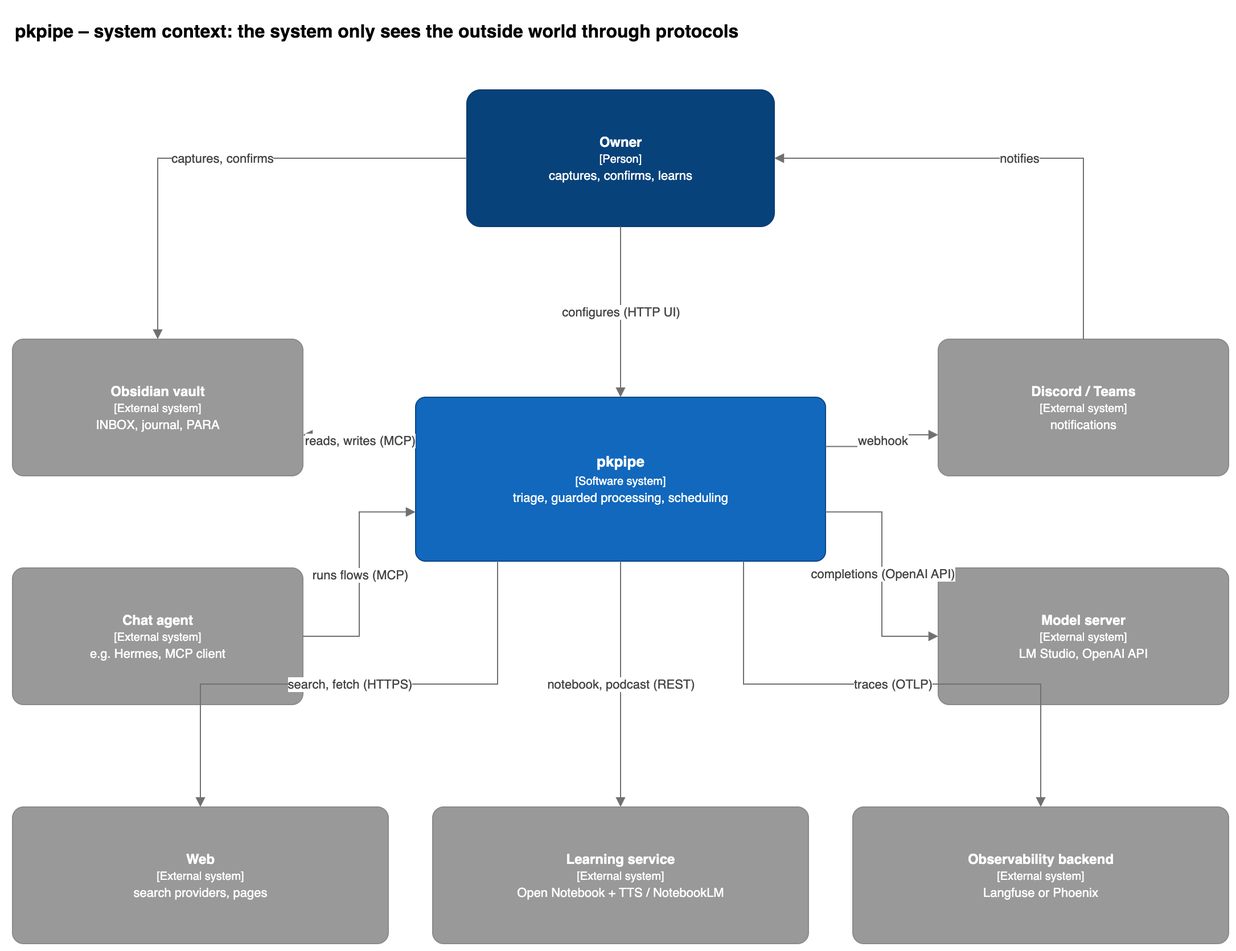
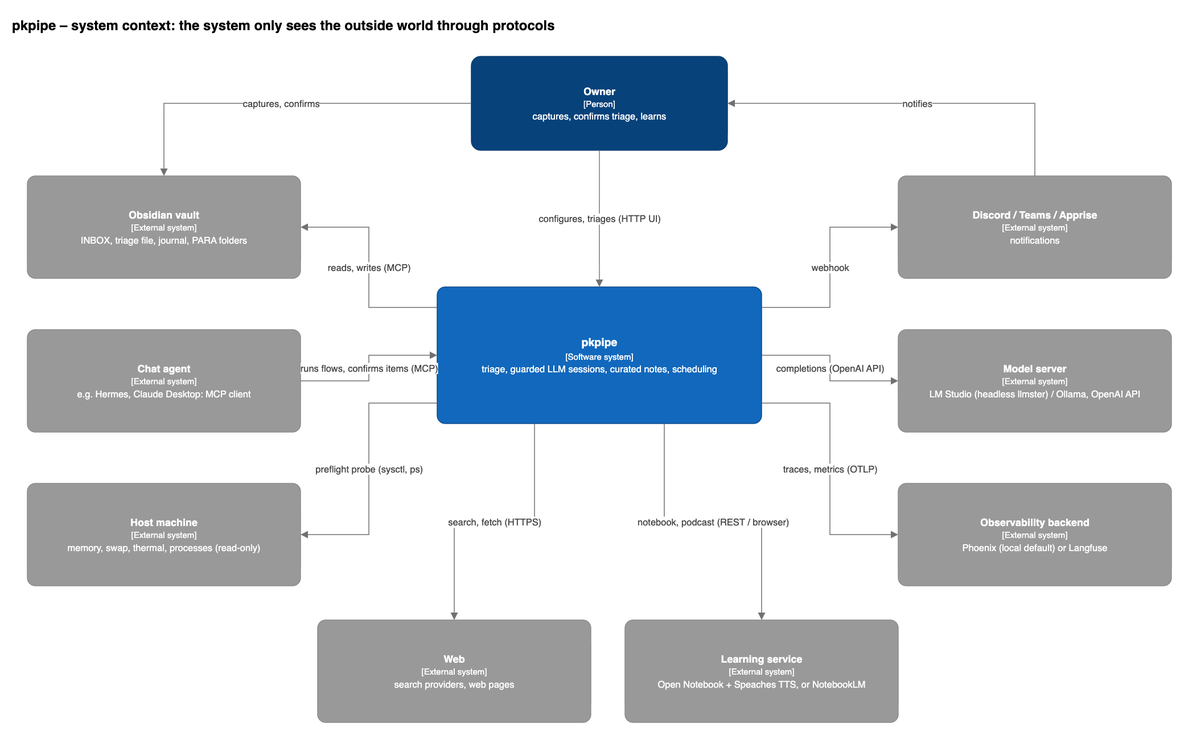
docs(architecture): C4 model with code references and a code level
- Context: host machine (system preflight probe), LM Studio headless llmster,
  Phoenix as local default, Apprise, Speaches TTS.
- Containers: pkpipe CLI, guard models (Qwen3Guard + DeBERTa, in-process),
  headless browsers behind the filtering proxy, ports and entry points,
  container-to-code table.
- Components: every component names its module and main classes; all ten
  implemented ports with their adapters; session plans, secure fetch,
  output guard, context packs, improvements and tool candidates, preflight
  service, publish gate, telemetry, app store, composition root.
- Drift fixed: no Git store adapter exists (publishing is pkpipe.api.publish);
  StatePort and ConfigPort have fakes only.
- New level 4 (code) page in pkpipe-c4.drawio, c4-code.png and a Mermaid
  class diagram; all PNGs re-exported with the draw.io CLI.

diff --git a/docs/architecture.md b/docs/architecture.md
@@ -25,13 +25,16 @@ The binding rules are in the constitution (`.specify/memory/constitution.md`). I
 | Orchestration | LangGraph (StateGraph, SQLite checkpointer) |
 | API and UI | FastAPI + HTMX + Monaco editor |
 | Scheduling | APScheduler (SQLite job store), `launchd` keeps the app alive |
-| Model | Any OpenAI-compatible server; default LM Studio with a ~9B instruct model, JSON-schema structured output |
+| Model | Any OpenAI-compatible server; default LM Studio, run headless as the `llmster` daemon (`lms daemon up`), with a ~9B instruct model, JSON-schema structured output |
 | Tools | MCP over Streamable HTTP (`langchain-mcp-adapters`, FastMCP) |
-| Web fetch | Lightpanda (headless, MCP), Playwright + Chromium fallback |
+| Web fetch | web-fetch MCP server: Lightpanda (headless) behind a filtering proxy, one Playwright + Chromium fallback |
 | Learning backend | Open Notebook (REST) with local TTS (Speaches / Kokoro); NotebookLM as optional backend |
 | Guards | Local classifiers: Qwen3Guard-Gen-0.6B (harmful content, jailbreak) + ProtectAI DeBERTa (prompt injection), [decision 0001](decisions/0001-injection-classifier.md); canary, heuristics and verdicts in code |
-| Observability | OpenTelemetry (OpenInference, FastAPI, httpx) → Langfuse or Phoenix |
+| Observability | OpenTelemetry (OpenInference, FastAPI, httpx) → Phoenix (local default) or Langfuse |
 | Docs | Docusaurus, GitHub Pages |
+
+
+The diagrams below have one source, `docs/design/pkpipe-c4.drawio` (pages: system context, containers, components, code). The PNGs in `docs/img/c4/` are exports of those pages (draw.io CLI: `draw.io -x -f png -p <page> -o docs/img/c4/<name>.png docs/design/pkpipe-c4.drawio`), and each Mermaid block shows the same elements. A change to one updates all three.
 
 ## C4 – level 1: system context
 
@@ -41,26 +44,29 @@ The binding rules are in the constitution (`.specify/memory/constitution.md`). I
 C4Context
     title System context - pkpipe
     Person(owner, "Owner", "Captures resources, confirms triage, learns")
-    System(pkpipe, "pkpipe", "Triage, guarded processing, scheduling")
-    System_Ext(vault, "Obsidian vault", "INBOX, journal, PARA folders")
-    System_Ext(chat, "Discord / Teams", "Notifications")
-    System_Ext(hermes, "Chat agent (e.g. Hermes)", "Controls pkpipe over MCP")
-    System_Ext(model, "Model server", "LM Studio / Ollama, OpenAI-compatible")
+    System(pkpipe, "pkpipe", "Triage, guarded LLM sessions, curated notes, scheduling")
+    System_Ext(vault, "Obsidian vault", "INBOX, triage file, journal, PARA folders")
+    System_Ext(agent, "Chat agent (e.g. Hermes, Claude Desktop)", "Controls pkpipe over MCP")
+    System_Ext(host, "Host machine", "Memory, swap, thermal state, processes (read-only)")
+    System_Ext(chat, "Discord / Teams / Apprise", "Notifications")
+    System_Ext(model, "Model server", "LM Studio (headless llmster daemon) / Ollama, OpenAI-compatible")
+    System_Ext(obs, "Observability backend", "Phoenix (local default) or Langfuse")
     System_Ext(web, "Web", "Search providers, web pages")
-    System_Ext(learn, "Learning service", "Open Notebook + local TTS, or NotebookLM")
-    System_Ext(obs, "Observability backend", "Langfuse or Phoenix")
+    System_Ext(learn, "Learning service", "Open Notebook + Speaches TTS, or NotebookLM")
     Rel(owner, vault, "Captures, confirms")
-    Rel(owner, pkpipe, "Configures", "HTTP UI")
+    Rel(owner, pkpipe, "Configures, triages", "HTTP UI")
+    Rel(chat, owner, "Notifies")
     Rel(pkpipe, vault, "Reads, writes", "MCP")
+    Rel(agent, pkpipe, "Runs flows, confirms items", "MCP")
+    Rel(pkpipe, host, "Preflight probe", "sysctl, ps")
     Rel(pkpipe, chat, "Notifies", "webhook")
-    Rel(hermes, pkpipe, "Runs flows, confirms items", "MCP")
     Rel(pkpipe, model, "Completions", "OpenAI API")
-    Rel(pkpipe, web, "Searches, fetches", "HTTPS")
-    Rel(pkpipe, learn, "Notebook, podcast", "REST / MCP")
     Rel(pkpipe, obs, "Traces, metrics", "OTLP")
+    Rel(pkpipe, web, "Searches, fetches", "HTTPS")
+    Rel(pkpipe, learn, "Notebook, podcast", "REST / browser")
 ```
 
-The system has one user; everything else is an external system that can be replaced as long as it speaks the same protocol.
+The system has one user; everything else is an external system that can be replaced as long as it speaks the same protocol. The host machine is read, never changed: the system preflight (`pkpipe doctor`, every eval run, the live tests) checks memory pressure, swap, thermal state and the LLM server before heavy work.
 
 ## C4 – level 2: containers
 
@@ -70,40 +76,63 @@ The system has one user; everything else is an external system that can be repla
 C4Container
     title Containers - pkpipe on one machine
     Person(owner, "Owner")
-    System_Ext(model, "Model server", "LM Studio")
-    System_Ext(chat, "Discord / Teams")
-    System_Ext(obs, "Trace backend", "Langfuse / Phoenix")
-    System_Ext(web, "Web")
+    System_Ext(agent, "Chat agent", "MCP client, owner or agent token")
+    System_Ext(chat, "Discord / Teams / Apprise")
+    System_Ext(model, "LM Studio", "headless llmster daemon :1234, OpenAI API")
+    System_Ext(obs, "Phoenix / Langfuse", "OTLP")
+    System_Ext(host, "Host machine", "sysctl, vm_stat, pmset, ps")
+    System_Ext(vault, "Obsidian vault", "Markdown files")
+    System_Ext(search, "Search providers")
+    System_Ext(web, "Web pages")
     System_Ext(nblm, "NotebookLM", "optional backend")
-    System_Ext(vault, "Obsidian vault", "files")
-    Container_Boundary(sys, "pkpipe") {
-        Container(app, "pkpipe app", "Python: FastAPI, LangGraph, APScheduler", "Flows, scheduling, UI, app MCP, telemetry")
-        ContainerDb(db, "App DB", "SQLite", "Checkpoints, items, jobs, runs")
-        ContainerDb(cfg, "Config repo", "git: JSON + Markdown", "Flows, categories, sessions, instructions")
-        Container(mvault, "obsidian-vault", "FastMCP", "Vault notes and lists")
-        Container(msearch, "web-search", "MCP", "SearXNG or Brave")
-        Container(mfetch, "web-fetch", "pkpipe.webfetch MCP", "fetch_page only: Lightpanda, Chromium fallback, filtering proxy")
-        Container(mlearn, "learning-gateway", "FastMCP", "Backends: open_notebook, notebooklm_browser, fake")
-        Container(on, "Open Notebook", "Docker", "API + SurrealDB + local TTS")
+    Container_Boundary(sys, "pkpipe (single machine)") {
+        Container(app, "pkpipe app", "Python: FastAPI, LangGraph, APScheduler (pkpipe serve :8787)", "REST + HTMX UI, app MCP (/mcp), scheduler, flow runs, session plans, secure fetch steps, output guard, system preflight, publish gate, OTel")
+        Container(cli, "pkpipe CLI", "Python", "run, runs, eval, doctor, candidates, validate: same core and adapters")
+        ContainerDb(guards, "Guard models", "local weights, transformers", "Qwen3Guard-Gen-0.6B + ProtectAI DeBERTa, in-process, offline")
+        ContainerDb(db, "App DB", "SQLite (WAL)", "Runs, config snapshots, checkpoints, jobs, drafts, publishes, audit")
+        ContainerDb(cfg, "Config", "git: JSON + Markdown", "Public pack + private overlay")
+        Container(mvault, "obsidian-vault :8701", "FastMCP, pkpipe.obsidian", "Notes, triage and processing lists, improvements, tool candidates, quarantine")
+        Container(msearch, "web-search :8702", "MCP, not in this repo", "SearXNG or Brave")
+        Container(mfetch, "web-fetch :8704", "FastMCP, pkpipe.webfetch", "fetch_page only: URL policy, filtering proxy, Lightpanda, Chromium fallback")
+        Container(browsers, "Headless browsers", "child processes", "Lightpanda, Playwright + Chromium")
+        Container(mlearn, "learning-gateway :8703", "FastMCP, pkpipe.learning", "create, status, link, audio; SQLite job store")
+        Container(on, "Open Notebook", "Docker", "API + SurrealDB + Speaches (Kokoro) TTS")
     }
-    Rel(owner, app, "UI", "HTTP")
-    Rel(app, db, "reads, writes")
-    Rel(app, cfg, "loads, publishes")
-    Rel(app, model, "completions", "OpenAI API")
+    Rel(owner, app, "UI, API", "HTTP")
+    Rel(agent, app, "tools", "MCP /mcp")
     Rel(app, chat, "notifies", "webhook")
+    Rel(app, model, "completions", "OpenAI API")
     Rel(app, obs, "exports", "OTLP")
+    Rel(app, host, "probes", "read-only")
+    Rel(app, guards, "loads")
+    Rel(app, db, "reads, writes")
+    Rel(cli, db, "reads, writes")
+    Rel(app, cfg, "loads, publishes", "git commit")
     Rel(app, mvault, "tools", "MCP")
     Rel(app, msearch, "tools", "MCP")
     Rel(app, mfetch, "tools", "MCP")
     Rel(app, mlearn, "tools", "MCP")
-    Rel(mvault, vault, "file I/O")
-    Rel(msearch, web, "HTTPS")
-    Rel(mfetch, web, "HTTPS")
+    Rel(mvault, vault, "file I/O, atomic, locked")
+    Rel(msearch, search, "HTTPS")
+    Rel(mfetch, browsers, "spawns")
+    Rel(browsers, web, "HTTPS via filtering proxy")
     Rel(mlearn, on, "REST")
     Rel(mlearn, nblm, "browser automation")
 ```
 
-Every box is a separate process. The app never imports an MCP server; it reaches them by URL from `mcp_servers.json`. The one exception is the owner channel: the UI and the app MCP read the triage file and write the owner's decisions through the `pkpipe.obsidian` library in-process (same file locking as the vault server), because owner decisions must not be a tool on the server that LLM sessions can reach. Only the `learning-gateway` knows about Open Notebook or NotebookLM, so switching the learning backend does not touch the app.
+Every box is a separate process. The app never imports an MCP server; it reaches them by URL from `mcp_servers.json`, and `launchd` keeps `pkpipe serve` and the three pkpipe MCP servers alive (`deploy/launchd/`). The one exception is the owner channel: the UI and the app MCP read the triage file and write the owner's decisions through the `pkpipe.obsidian` library in-process (same file locking as the vault server), because owner decisions must not be a tool on the server that LLM sessions can reach. Only the `learning-gateway` knows about Open Notebook or NotebookLM, so switching the learning backend does not touch the app. Only web-search, web-fetch and learning-gateway have egress; the browsers reach the web only through the per-fetch filtering proxy.
+
+| Container | Code | Entry point | Notes |
+| --- | --- | --- | --- |
+| pkpipe app | `pkpipe.serve`, `pkpipe.app`, `pkpipe.api`, `pkpipe.mcp`, `pkpipe.scheduler`, `pkpipe.engine`, `pkpipe.steps` | `pkpipe serve` | One listener for UI, `/api` and `/mcp`; bind check and tokens in `pkpipe.api.security` |
+| pkpipe CLI | `pkpipe.cli`, `pkpipe.candidates_cli`, `pkpipe.system.cli`, `pkpipe.evals.cli` | `pkpipe <command>` | Same composition root (`pkpipe.app`) as the app |
+| Guard models | `pkpipe.adapters.classifier_qwen3guard`, `classifier_deberta`, `classifier_combined` | loaded by `pkpipe.adapters.classifiers.build_classifier` | Weights read from local directories, never downloaded at run time |
+| App DB | `pkpipe.adapters.state_sqlite`, `pkpipe.adapters.app_store_sqlite`, `pkpipe.scheduler.sqlite_jobstore` | – | One SQLite file |
+| Config | `packs/learning-inbox/` (public pack), private overlay repo | `pkpipe.engine.registry.load_effective` | Published by `pkpipe.api.publish.Publisher` (one local commit, no push) |
+| obsidian-vault | `pkpipe.obsidian` (`server`, `vault.Vault`, `policy.VaultPolicy`, `tables`, `atomic`) | `mcp_servers/obsidian_vault/server.py` | – |
+| web-search | external (SearXNG in `deploy/docker-compose.yml`, or Brave MCP) | – | Only the `search` tool is allow-listed |
+| web-fetch | `pkpipe.webfetch` (`server`, `service.SecureFetcher`, `proxy.FilteringProxy`, `browsers`) | `mcp_servers/web_fetch/server.py` | Tools `fetch_page`, `fetch_stats` |
+| learning-gateway | `pkpipe.learning` (`server`, `gateway.LearningGateway`, `store.JobStore`, `backends.*`) | `mcp_servers/learning_gateway/server.py` | `deploy/open-notebook/` runs Open Notebook + Speaches |
 
 ## C4 – level 3: components of the app
 
@@ -113,62 +142,173 @@ Every box is a separate process. The app never imports an MCP server; it reaches
 C4Component
     title Components - pkpipe app (ports and adapters)
     Container_Boundary(app, "pkpipe app") {
-        Component(rest, "REST + UI router", "FastAPI, HTMX", "Inbound adapter")
-        Component(appmcp, "App MCP server", "FastMCP", "Inbound adapter")
-        Component(sched, "Scheduler", "APScheduler", "Inbound adapter")
-        Component(cli, "CLI", "argparse", "Inbound adapter")
-        Component(run, "Run service", "core", "Start, resume, pin config version")
-        Component(comp, "Flow compiler", "core", "Flow JSON to LangGraph StateGraph")
-        Component(steps, "Step executors", "core", "llm, llm_tools, tool, code, notify, wait, subflow")
-        Component(triage, "Triage domain", "core", "Item states, release rule")
-        Component(reg, "Config registry", "core", "Layers, validation, hot reload")
-        Component(ports, "Ports", "Protocols", "ModelPort, ToolPort, NotifyPort, StatePort, ConfigPort, SystemProbePort")
-        Component(aopenai, "OpenAI client", "adapter", "ModelPort")
-        Component(amcp, "MCP client", "adapter", "ToolPort")
-        Component(anotify, "Notifiers", "adapter", "NotifyPort: Discord, Teams, Apprise")
-        Component(asqlite, "SQLite repo", "adapter", "StatePort + checkpointer")
-        Component(agit, "Git store", "adapter", "ConfigPort")
-        Component(aprobe, "System probe", "adapter", "SystemProbePort: sysctl, vm_stat, pmset, ps, LM Studio")
+        Component(rest, "REST + UI router", "pkpipe.api", "Inbound adapter")
+        Component(appmcp, "App MCP server", "pkpipe.mcp", "Inbound adapter")
+        Component(sched, "Scheduler", "pkpipe.scheduler", "Inbound adapter")
+        Component(cli, "CLI", "pkpipe.cli", "Inbound adapter")
+        Component(run, "Run service", "engine.runs", "Start, resume, pin config version")
+        Component(comp, "Flow compiler", "engine.compiler", "Flow JSON to LangGraph StateGraph")
+        Component(reg, "Config registry", "engine.registry", "Layers, validation, snapshot")
+        Component(steps, "Step executors", "pkpipe.steps", "llm, llm_tools, tool, code, notify, wait, subflow, guard")
+        Component(plan, "Session plans", "steps.session_plan", "Category plan, isolated sessions")
+        Component(fetch, "Secure fetch steps", "steps.secure_fetch", "url_check, fetch, sanitize, scan, reader, verdict")
+        Component(oguard, "Output guard", "steps.output_guard", "Canary, heuristics, classifier before writes")
+        Component(sec, "Security library", "pkpipe.security", "URL filter, sanitizer, heuristics, canary, verdict")
+        Component(domain, "Domain", "pkpipe.domain", "Triage, context packs, improvements, tool candidates, preflight policy")
+        Component(ports, "Ports", "pkpipe.ports", "Model, Tool, Notify, Classifier, SecurityLog, ContextStore, RunStore, Tracer, Clock, SystemProbe")
+        Component(adapters, "Outbound adapters", "pkpipe.adapters", "OpenAI, MCP, notifiers, classifiers, files, SQLite, OTel, system probe")
+        Component(services, "Application services", "pkpipe.system, pkpipe.evals, pkpipe.telemetry", "Preflight, publish gate, telemetry")
     }
     Rel(rest, run, "calls")
     Rel(appmcp, run, "calls")
     Rel(sched, run, "calls")
     Rel(cli, run, "calls")
     Rel(run, comp, "builds graph")
-    Rel(comp, steps, "wires")
     Rel(comp, reg, "reads")
-    Rel(steps, triage, "applies rules")
+    Rel(comp, steps, "wires")
+    Rel(steps, plan, "includes")
+    Rel(steps, fetch, "includes")
+    Rel(steps, oguard, "includes")
+    Rel(steps, sec, "uses")
+    Rel(steps, domain, "applies rules")
     Rel(steps, ports, "uses")
     Rel(run, ports, "uses")
-    Rel(aopenai, ports, "implements")
-    Rel(amcp, ports, "implements")
-    Rel(anotify, ports, "implements")
-    Rel(asqlite, ports, "implements")
-    Rel(agit, ports, "implements")
-    Rel(aprobe, ports, "implements")
+    Rel(adapters, ports, "implements")
+    Rel(services, domain, "decides with")
 ```
 
-Dependencies point inwards: inbound adapters call the core, the core knows only the ports, outbound adapters implement the ports.
+Dependencies point inwards: inbound adapters call the core, the core knows only the ports, outbound adapters implement the ports. The core (`pkpipe.engine`, `.domain`, `.steps`, `.security`) may import only `pkpipe.ports`, the stdlib, LangGraph, pydantic and `langchain_core`; `tests/unit/repo/test_architecture.py` enforces it.
 
-| Component | Module | Depends on | Replacing it affects |
+| Component | Module (main classes) | Depends on | Replacing it affects |
 | --- | --- | --- | --- |
-| REST + UI router | `pkpipe.api` | Run service, Config registry | UI only |
-| App MCP server | `pkpipe.mcp` | Run service, Triage domain, `pkpipe.api.services` | MCP clients only |
-| Scheduler | `pkpipe.scheduler` | Run service | Nothing |
-| Run service | `pkpipe.engine.runs` | Flow compiler, RunStorePort, checkpointer | – |
-| Flow compiler | `pkpipe.engine.compiler` | Step executors, Config registry | – |
-| Step executors | `pkpipe.steps` | ModelPort, ToolPort, NotifyPort, ClockPort, TracerPort | New step type = new module (`@register_step`) |
-| Triage domain | `pkpipe.domain.triage` | Nothing (pure Python) | – |
-| Config registry | `pkpipe.engine.registry` | ConfigPort | – |
-| OpenAI client | `pkpipe.adapters.model_openai` | `langchain-openai` | Model server: URL only |
-| MCP client | `pkpipe.adapters.tools_mcp` | FastMCP client | Tool backend: `mcp_servers.json` only |
-| Notifiers | `pkpipe.adapters.notify_*` | `httpx`, `apprise` | New channel = new adapter |
-| SQLite repo | `pkpipe.adapters.state_sqlite` | `langgraph-checkpoint-sqlite` | Can move to Postgres |
-| Tracer | `pkpipe.adapters.tracer_otel` | `pkpipe.telemetry` (OpenTelemetry) | TracerPort; the core never imports OpenTelemetry |
-| System preflight policy | `pkpipe.domain.system` | Nothing (pure Python, `evals.preflight` thresholds) | – |
-| System probe | `pkpipe.adapters.system_probe` | `sysctl`, `vm_stat`, `pmset`, `ps`, `/proc`, LM Studio REST / `lms` | SystemProbePort; another OS = another probe |
-| System preflight service | `pkpipe.system` | SystemProbePort, `pkpipe.telemetry` | `pkpipe doctor`, `pkpipe eval`, live-test sampler |
-| Composition root | `pkpipe.app` | All adapters | Chooses the adapter per port |
-| Git store | `pkpipe.adapters.config_git` | `git` | Can move to plain files |
+| REST + UI router | `pkpipe.api.app.create_app`, `pkpipe.api.services.AppServices`, `RunLauncher`, `pkpipe.api.workspace.ConfigWorkspace`, `pkpipe.api.security.GuardMiddleware` | Run service, Config registry, App store, Publish gate | UI only |
+| App MCP server | `pkpipe.mcp.server.build_app_mcp` (`run_flow`, `get_run`, `list_triage`, `confirm_item`, `override_item`, `release_quarantine`) | `pkpipe.api.services.AppServices`, Triage domain | MCP clients only |
+| Scheduler | `pkpipe.scheduler.FlowScheduler` | Run service, APScheduler SQLite job store | Nothing |
+| CLI | `pkpipe.cli.main`, `pkpipe.candidates_cli`, `pkpipe.system.cli`, `pkpipe.evals.cli` | Run service, Preflight service, Evals | – |
+| Run service | `pkpipe.engine.runs.RunService` | Flow compiler, RunStorePort, checkpointer | – |
+| Flow compiler | `pkpipe.engine.compiler.FlowCompiler`, `validate_flow`, `validate_config_flows` | Step executors, Config registry | – |
+| Config registry | `pkpipe.engine.registry.load_effective`, `EffectiveConfig`, `pkpipe.engine.snapshot.ConfigSnapshot`, `pkpipe.engine.config_models` | Files of the pack and overlay | – |
+| Step executors | `pkpipe.steps.base` (`StepExecutor`, `StepRegistry`, `@register_step`, `@register_code`, `StepPorts`), `steps.llm`, `steps.tool`, `steps.flow_control` | ModelPort, ToolPort, NotifyPort, ClockPort, TracerPort | New step type = new module (`@register_step`) |
+| Session plans | `pkpipe.steps.session_plan.SessionPlanStep`, `pkpipe.domain.session_plan` | Step executors, `categories.json` | New category = data only |
+| Secure fetch steps | `pkpipe.steps.secure_fetch` (`FetchStep`, `SanitizeStep`, `ReaderStep`, `url_check`, `scan`, `verdict`) | ToolPort (web-fetch), ClassifierPort, Security library | – |
+| Output guard | `pkpipe.steps.output_guard.OutputGuardStep`, `pkpipe.security.guard.check_output` | ClassifierPort, canary, heuristics | – |
+| Security library | `pkpipe.security` (`urlfilter.UrlPolicy`, `sanitize`, `heuristics`, `canary`, `verdict`, `quarantine`, `query_guard`) | Nothing (pure Python) | – |
+| Triage domain | `pkpipe.domain.triage`, `pkpipe.steps.triage_code` | Nothing (pure Python) | – |
+| Context packs | `pkpipe.domain.context_pack`, `pkpipe.steps.context_code` | ContextStorePort | – |
+| Improvements, tool candidates | `pkpipe.domain.improvement`, `pkpipe.domain.tool_candidate`, `pkpipe.steps.improvement_code`, `pkpipe.evals.ab` | Vault tools (MCP) | – |
+| System preflight policy | `pkpipe.domain.system` (`SystemSnapshot`, `PreflightDecision`) | Nothing (pure Python, `evals.preflight` thresholds) | – |
+| System preflight service | `pkpipe.system.preflight.run_preflight`, `pkpipe.system.sampler.SystemSampler` | SystemProbePort, `pkpipe.telemetry` | `pkpipe doctor`, `pkpipe eval`, live-test sampler |
+| Evals + publish gate | `pkpipe.evals` (`gate.PublishGate`, `runner.EvalRunner`, `suites`, `judge.Judge`, `cassette.CassetteModel`) | ModelPort (default + judge profile), ClassifierPort | Gates every UI publish |
+| Telemetry | `pkpipe.telemetry` (`runtime.Telemetry`, `export.ScrubbingExporter`, `ResilientExporter`) | OpenTelemetry, OpenInference | OTLP backend: environment only |
+| Owner vault channel | `pkpipe.obsidian.vault.Vault` (`owner_decide`, `owner_release_quarantine`) | Vault files | – |
+| App store | `pkpipe.adapters.app_store_sqlite.AppStore` | SQLite | Drafts, publishes, owner audit log |
+| OpenAI client | `pkpipe.adapters.model_openai.OpenAIModel` | `langchain-openai` | Model server: URL only |
+| MCP client | `pkpipe.adapters.tools_mcp.McpTools` | FastMCP client | Tool backend: `mcp_servers.json` only |
+| Notifiers | `pkpipe.adapters.notify_router.ChannelNotifier` → `notify_discord.DiscordWebhook`, `notify_teams.TeamsWorkflow`, `notify_apprise.AppriseChannel`, `notify_log.LogChannel` | `httpx`, `apprise`, `notify_templates` | New channel = new adapter |
+| Local classifiers | `pkpipe.adapters.classifiers.build_classifier` → `Qwen3GuardClassifier`, `DebertaInjectionClassifier`, `CombinedClassifier` | `transformers`, local weights | ClassifierPort |
+| Security log, context files | `pkpipe.adapters.security_log_files.FileSecurityLog`, `pkpipe.adapters.context_store_files.FileContextStore` | Overlay files | SecurityLogPort, ContextStorePort |
+| SQLite repo | `pkpipe.adapters.state_sqlite.SqliteRunStore`, `open_checkpointer` | `langgraph-checkpoint-sqlite` | RunStorePort; can move to Postgres |
+| Tracer | `pkpipe.adapters.tracer_otel.OtelTracer` | `pkpipe.telemetry` (OpenTelemetry) | TracerPort; the core never imports OpenTelemetry |
+| System clock | `pkpipe.engine.runtime_defaults.SystemClock` | stdlib | ClockPort |
+| System probe | `pkpipe.adapters.system_probe.MacOSSystemProbe`, `LinuxSystemProbe` | `sysctl`, `vm_stat`, `pmset`, `ps`, `/proc`, LM Studio REST / `lms` | SystemProbePort; another OS = another probe |
+| Composition root | `pkpipe.app` (`ports_for`, `build_run_service`, `make_*`), `pkpipe.serve.build_services` | All adapters | Chooses the adapter per port |
 
-Every port has an in-memory fake under `tests/fakes/`, so unit tests and evals run without a model server, MCP servers or network.
+`StatePort` and `ConfigPort` are declared in `pkpipe.ports` but have in-memory fakes only: triage items live in the vault (read and written through the obsidian-vault MCP tools), and the config is read from files by the registry and published to git by `pkpipe.api.publish` (`GitRepo`, `Publisher`). Every port has an in-memory fake under `tests/fakes/`, so unit tests and evals run without a model server, MCP servers or network.
+
+## C4 – level 4: code
+
+![Code](img/c4/c4-code.png)
+
+```mermaid
+classDiagram
+    direction LR
+    class RunService {
+        start(flow, inputs, trigger)
+        resume(run_id)
+        resume_incomplete()
+    }
+    class FlowCompiler {
+        compile(flow_id, checkpointer)
+        subgraph(flow_id)
+    }
+    class ConfigSnapshot
+    class StepRegistry
+    class StepPorts {
+        clock
+        tracer
+        model
+        tools
+        notify
+        extra
+        require(name)
+    }
+    class StepExecutor {
+        type
+        Config
+        run(ctx) StepResult
+    }
+    class LlmStep
+    class LlmToolsStep
+    class ToolStep
+    class CodeStep
+    class FetchStep
+    class SanitizeStep
+    class ReaderStep
+    class OutputGuardStep
+    class SessionPlanStep
+    class SecureFetcher
+    class FilteringProxy
+    class LightpandaBrowser
+    class ChromiumBrowser
+    class LearningGateway
+    class LearningBackend
+    class OpenNotebookBackend
+    class NotebookLMBrowserBackend
+    class JobStore
+    class Vault
+    class VaultPolicy
+    RunService --> ConfigSnapshot : pins
+    RunService --> FlowCompiler : creates per run
+    FlowCompiler --> StepRegistry : looks up step types
+    FlowCompiler --> StepExecutor : calls run()
+    StepExecutor --> StepPorts : ctx.ports
+    StepExecutor <|-- LlmStep
+    StepExecutor <|-- LlmToolsStep
+    StepExecutor <|-- ToolStep
+    StepExecutor <|-- CodeStep
+    StepExecutor <|-- FetchStep
+    StepExecutor <|-- SanitizeStep
+    StepExecutor <|-- ReaderStep
+    StepExecutor <|-- OutputGuardStep
+    StepExecutor <|-- SessionPlanStep
+    SecureFetcher --> FilteringProxy : one per fetch
+    SecureFetcher --> LightpandaBrowser : primary
+    SecureFetcher --> ChromiumBrowser : one fallback
+    LearningGateway --> LearningBackend
+    LearningGateway --> JobStore
+    LearningBackend <|.. OpenNotebookBackend
+    LearningBackend <|.. NotebookLMBrowserBackend
+    Vault --> VaultPolicy
+```
+
+The code level names the classes that carry each component; the tables above give their modules.
+
+| Area | Classes and functions | Module |
+| --- | --- | --- |
+| Run path | `RunService`, `Run`, `RunOutcome` | `pkpipe.engine.runs` |
+| | `FlowCompiler`, `FlowState`, `validate_flow`, `private_data_errors` | `pkpipe.engine.compiler` |
+| | `Flow`, `FlowNode` | `pkpipe.engine.flow_models` |
+| | `load_effective`, `EffectiveConfig`, `ConfigSnapshot` | `pkpipe.engine.registry`, `pkpipe.engine.snapshot` |
+| Step types | `LlmStep` (`llm`), `LlmToolsStep` (`llm_tools`) | `pkpipe.steps.llm` |
+| | `ToolStep` (`tool`) | `pkpipe.steps.tool` |
+| | `CodeStep`, `NotifyStep`, `WaitStep`, `SubflowStep`, `GuardStep` | `pkpipe.steps.flow_control` |
+| | `FetchStep`, `SanitizeStep`, `ReaderStep` | `pkpipe.steps.secure_fetch` |
+| | `OutputGuardStep` (`output_guard`) | `pkpipe.steps.output_guard` |
+| | `SessionPlanStep` (`session_plan`) | `pkpipe.steps.session_plan` |
+| Code functions (`@register_code`) | triage, context, improvement, learning, security, category | `pkpipe.steps.triage_code`, `context_code`, `improvement_code`, `learning_code`, `security_code`, `session_plan` |
+| Ports | `ModelPort`, `ToolPort`, `NotifyPort`, `ClassifierPort`, `SecurityLogPort`, `ContextStorePort`, `RunStorePort`, `TracerPort`, `SpanPort`, `ClockPort`, `SystemProbePort`, `StatePort`, `ConfigPort` | `pkpipe.ports.ports` |
+| web-fetch | `SecureFetcher`, `FilteringProxy`, `LightpandaBrowser`, `ChromiumBrowser`, `Browser` | `pkpipe.webfetch.service`, `.proxy`, `.browsers` |
+| learning-gateway | `LearningGateway`, `JobStore`, `LearningBackend`, `OpenNotebookBackend`, `NotebookLMBrowserBackend`, `FakeBackend`, `check_url` | `pkpipe.learning.gateway`, `.store`, `.backend`, `.backends`, `.urlcheck` |
+| obsidian-vault | `Vault`, `VaultPolicy`, `TableFile`, `TriageRow`, `ProcessingListRow` | `pkpipe.obsidian.vault`, `.policy`, `.tables`, `.models` |
+| App MCP, UI | `build_app_mcp`, `create_app`, `AppServices`, `RunLauncher`, `ConfigWorkspace`, `Publisher`, `GitRepo`, `Tokens` | `pkpipe.mcp.server`, `pkpipe.api.*` |
+| Pack | flows (`flows/*.json`), categories with session plans, prompts, instructions, schemas, templates, `mcp_servers.json`, `models.json`, `security.json` | `packs/learning-inbox/` |
